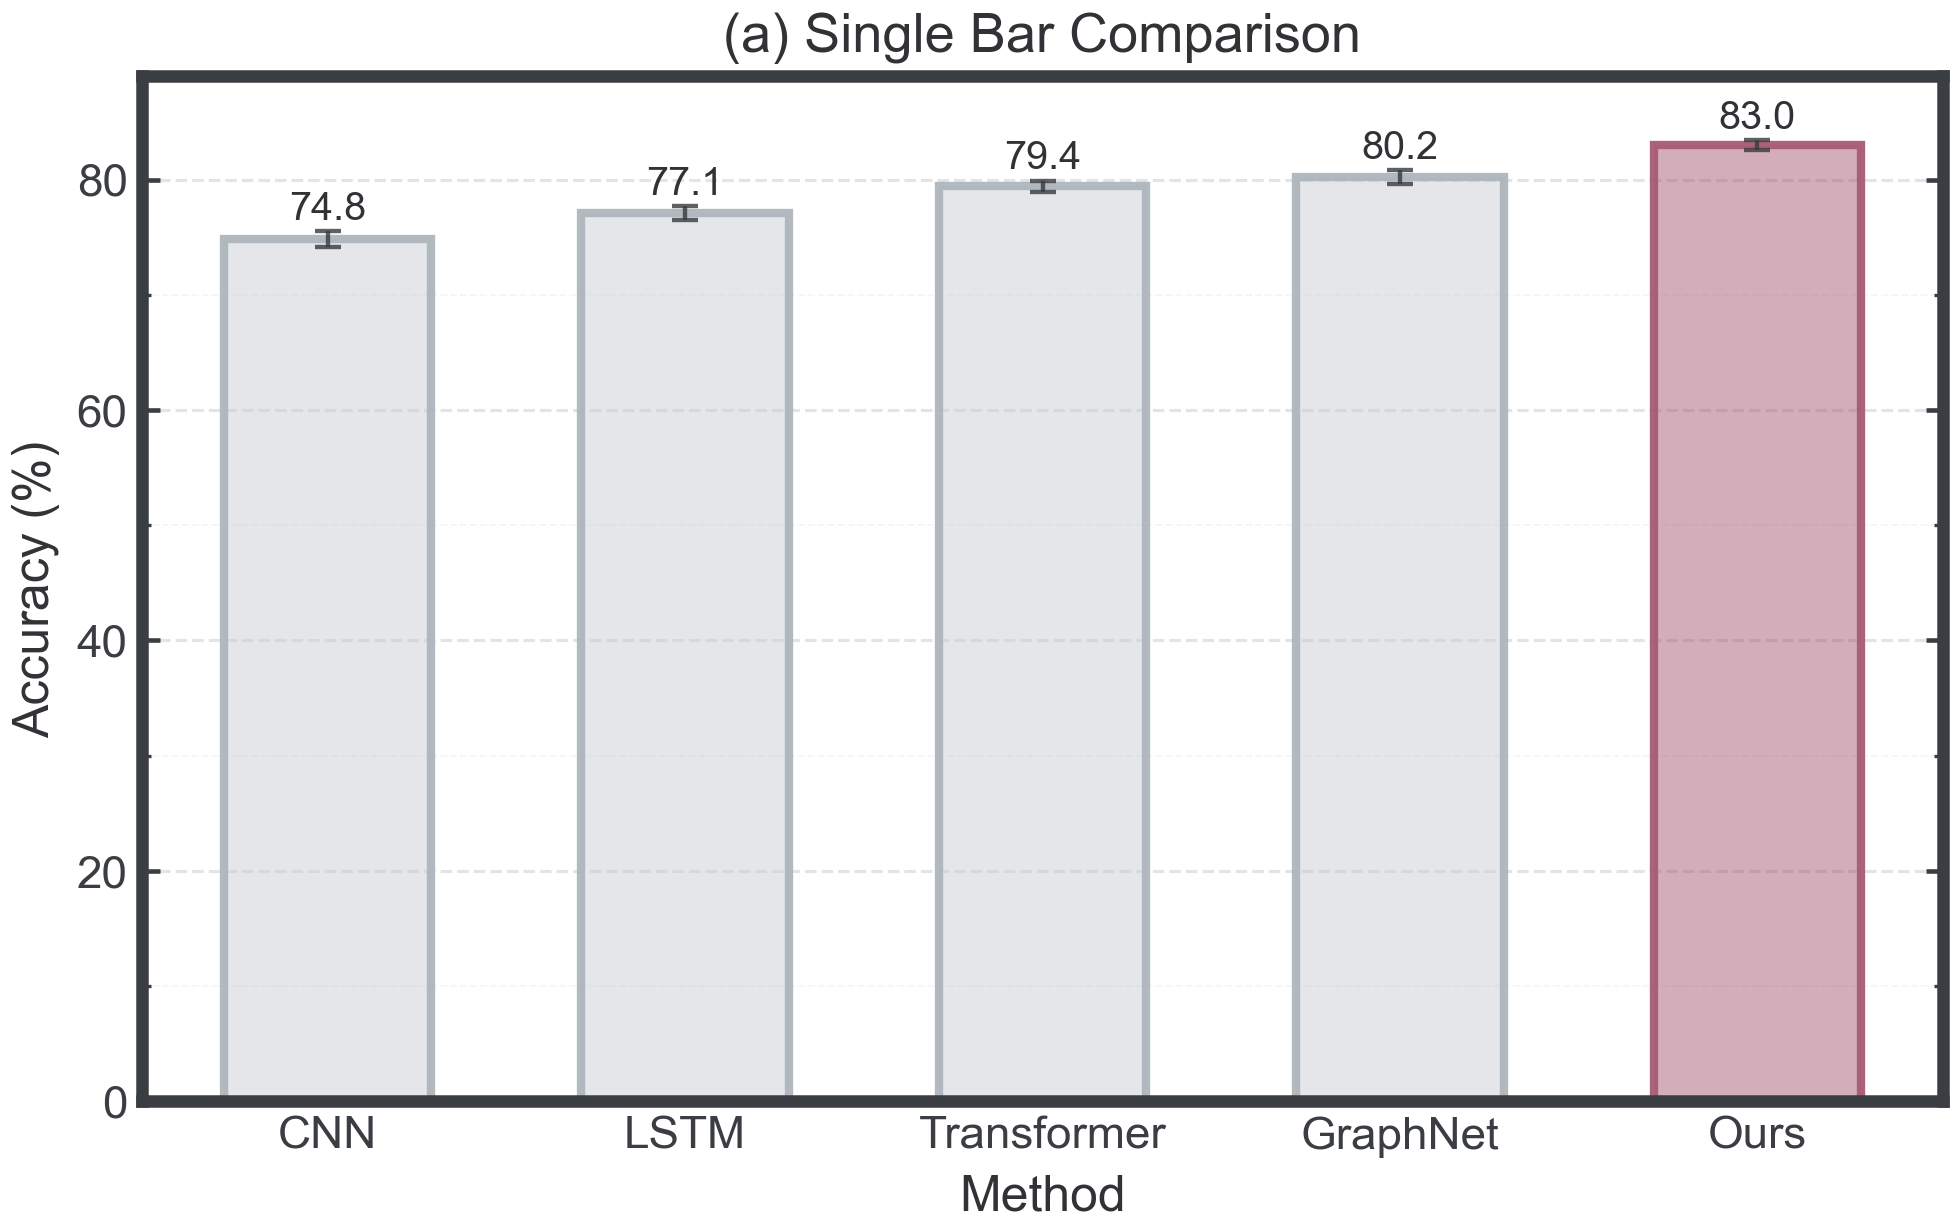
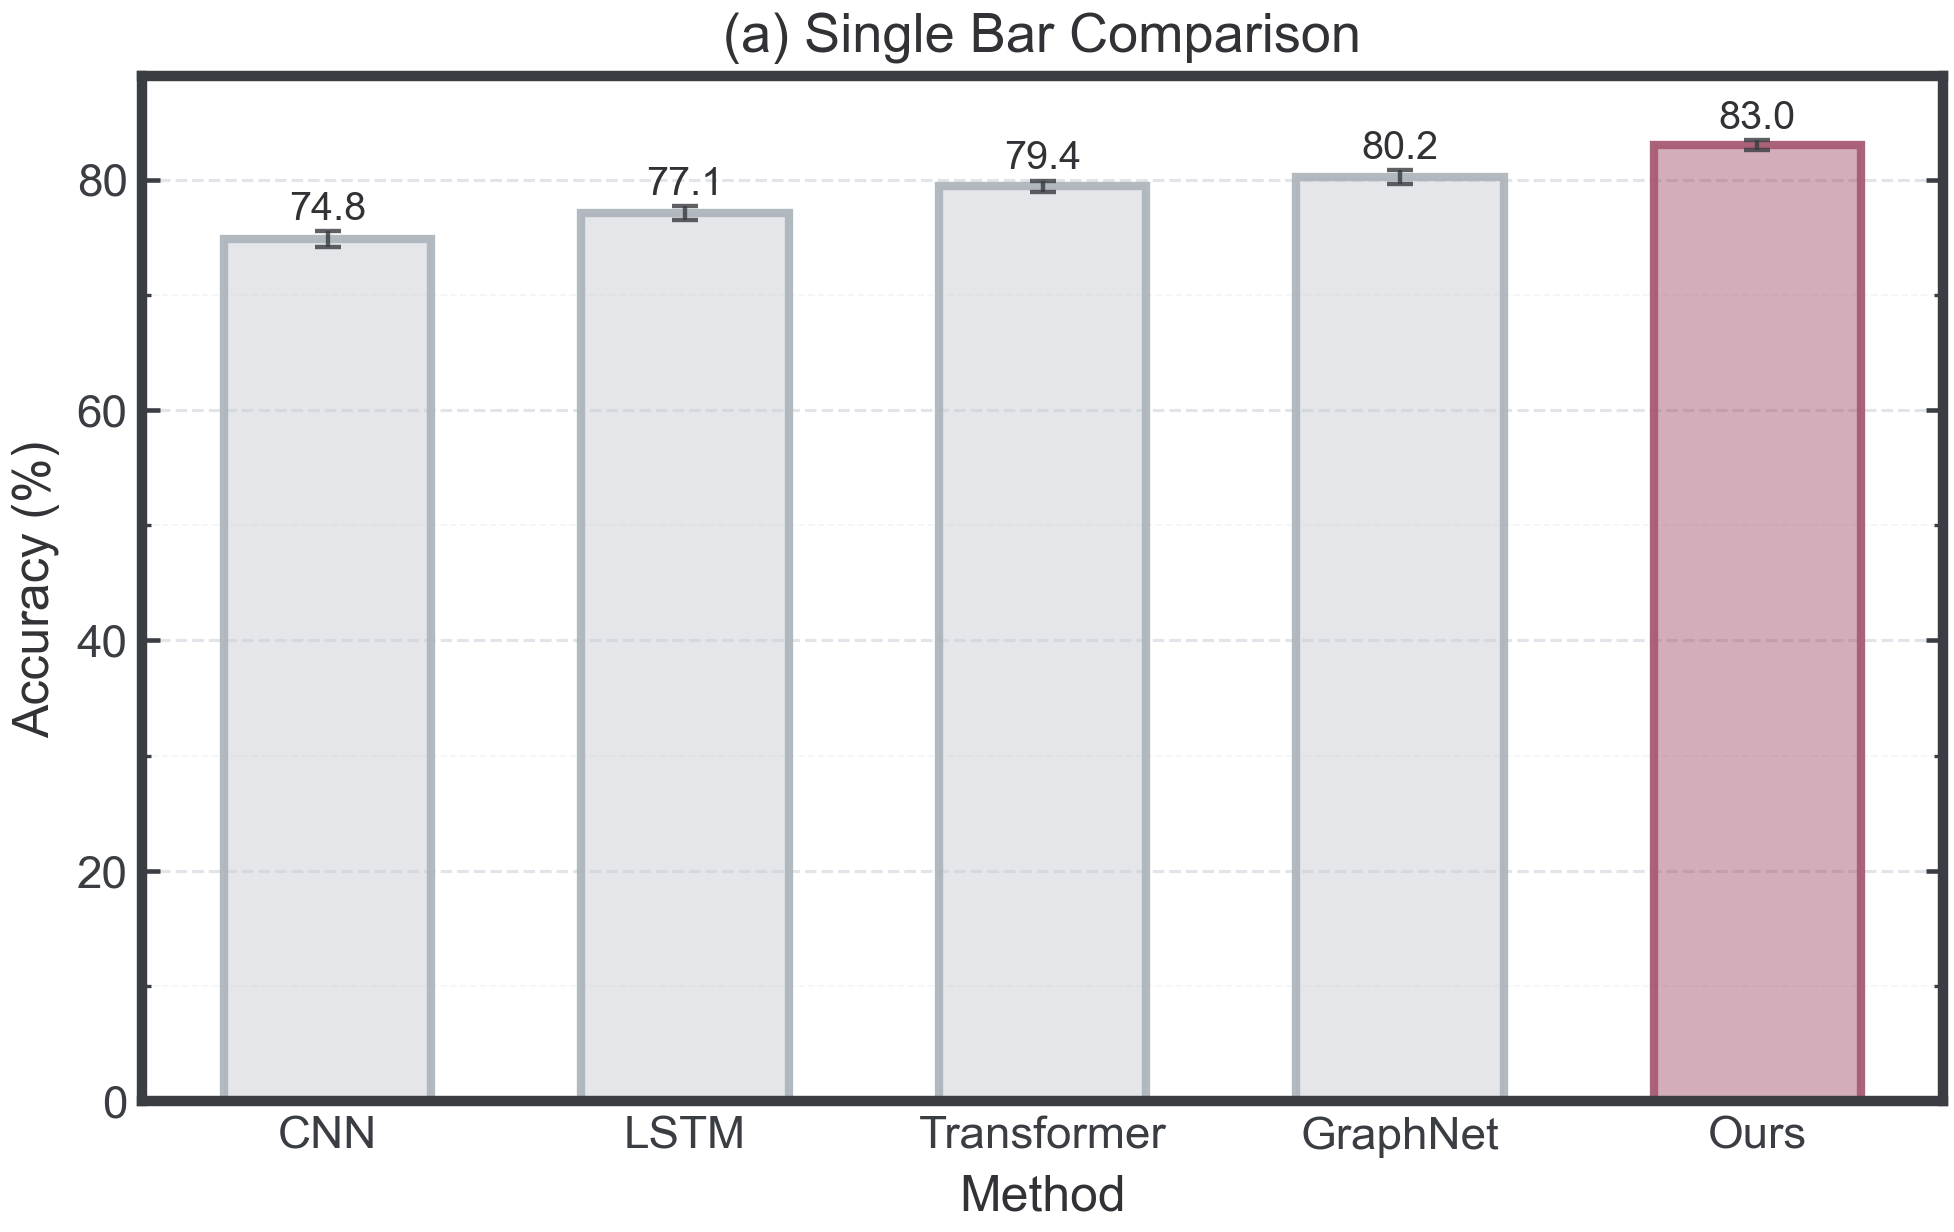
Set plot frame width to 2.5pt

diff --git a/skills/plot-training-curves/scripts/plot_training_curves.py b/skills/plot-training-curves/scripts/plot_training_curves.py
@@ -111,7 +111,7 @@ def set_line_plot_style(
     legend_size: float = 10.5,
     line_width: float = 1.65,
     figure_size: tuple[float, float] = (7.2, 4.6),
-    spine_width: float = 3.0,
+    spine_width: float = 2.5,
 ) -> None:
     c = colors()
     n = neutrals()
@@ -599,7 +599,7 @@ def render_single_axis(
     smooth: int,
     title: str | None,
     show_legend: bool,
-    spine_width: float = 3.0,
+    spine_width: float = 2.5,
 ) -> plt.Figure:
     set_line_plot_style(spine_width=spine_width)
     fig, ax = plt.subplots()
@@ -664,7 +664,7 @@ def render_loss_lr_panels(
     smooth: int,
     title: str | None,
     show_legend: bool,
-    spine_width: float = 3.0,
+    spine_width: float = 2.5,
 ) -> plt.Figure:
     lr = require_series(lr, "learning rate")
     if train is None and val is None:
@@ -764,7 +764,7 @@ def save_separate_figures(
     output: Path,
     pdf: bool,
     show_legend: bool,
-    spine_width: float = 3.0,
+    spine_width: float = 2.5,
 ) -> list[Path]:
     stem = output_stem(output)
     jobs = [
@@ -822,8 +822,8 @@ def parse_args() -> argparse.Namespace:
     )
     parser.add_argument("--pdf", action="store_true", help="Also save a companion PDF.")
     parser.add_argument(
-        "--spine-width", type=float, default=3.0,
-        help="Thickness in points of the four sides of the axes frame (default: 3.0).",
+        "--spine-width", type=float, default=2.5,
+        help="Thickness in points of the four sides of the axes frame (default: 2.5).",
     )
     parser.add_argument("--no-legend", action="store_true", help="Hide the legend.")
     return parser.parse_args()

diff --git a/skills/plot-bar-charts/scripts/plot_bar_charts.py b/skills/plot-bar-charts/scripts/plot_bar_charts.py
@@ -112,7 +112,7 @@ DEFAULT_CONFIG: dict[str, Any] = {
     "spines": {
         "top": True,
         "right": True,
-        "linewidth": 3.0,
+        "linewidth": 2.5,
     },
     "value_labels": {
         "enabled": True,

diff --git a/skills/plot-training-curves/SKILL.md b/skills/plot-training-curves/SKILL.md
@@ -34,7 +34,7 @@ python scripts/plot_training_curves.py trainer_state.json --mode train-vs-val --
 python scripts/plot_training_curves.py metrics.csv --mode lr-schedule --output lr_schedule.png
 ```
 
-Use `--spine-width 3.0` to set the frame thickness explicitly; the default is `3.0 pt`.
+Use `--spine-width 2.5` to set the frame thickness explicitly; the default is `2.5 pt`.
 
 In `all-separate` mode, `--output training_curves.png` is treated as a prefix and creates:
 
@@ -61,7 +61,7 @@ Use the bundled visual style unless the user requests a different house style:
 - Use semantic default colors: training loss green, validation/eval loss red, and learning-rate schedule blue. Use the remaining low-saturation palette colors only for additional series.
 - Use slightly transparent main lines rather than fully opaque strokes; the default script uses RGBA line alpha around `0.92` and line width around `1.65`.
 - Draw markers with semi-transparent fills and near-solid edges: keep `marker_face_alpha` around `0.6`, `marker_edge_alpha` around `0.95`, and `marker_edge_width` around `1.35`.
-- Keep the complete axes frame visible and set its default spine width to `3.0 pt`, using dark neutral axes color. Keep marker edges around `1.35 pt` so they remain subordinate to the stronger frame; preserve config overrides.
+- Keep the complete axes frame visible and set its default spine width to `2.5 pt`, using dark neutral axes color. Keep marker edges around `1.35 pt` so they remain subordinate to the stronger frame; preserve config overrides.
 - Transparent background, high-DPI PNG, and vector-friendly PDF/SVG font settings.
 - Smart major/minor ticks with subtle dashed grids.
 - Sparse markers on long curves so dense training logs remain readable.

diff --git a/README.md b/README.md
@@ -20,7 +20,7 @@ Create configurable line plots for LLM and machine-learning training logs, inclu
 - Learning-rate schedule
 
 The skill emphasizes reusable plotting code with explicit config interfaces for figure size, colors, line styles, alpha, markers, titles, labels, legends, ticks, grids, and export settings.
-Its default plots use a complete `3.0 pt` axes frame and slightly stronger marker edges.
+Its default plots use a complete `2.5 pt` axes frame and slightly stronger marker edges.
 
 ### `plot-bar-charts`
 
@@ -32,7 +32,7 @@ Create configurable single and grouped bar charts for scientific comparisons, in
 - Error bars and value labels
 
 The skill also requires generated bar-plot code to expose config controls for bar width, colors, alpha, edge style, error bars, value labels, legend placement, axis settings, and export formats.
-Its default plots use a complete `3.0 pt` axes frame and `2.0 pt` bar outlines.
+Its default plots use a complete `2.5 pt` axes frame and `2.0 pt` bar outlines.
 
 ### `paper-reading`
 

diff --git a/skills/plot-bar-charts/SKILL.md b/skills/plot-bar-charts/SKILL.md
@@ -62,7 +62,7 @@ Use the bundled visual style unless the user requests a different house style:
 - Default single highlighted bars should render non-highlight bars in neutral gray and the highlighted bar in red.
 - Default grouped bars should use blue, green, red, purple, cyan, orange, olive, then brown.
 - Use `face_alpha` around `0.5`, `edge_alpha` around `0.95`, and bar `edge_width` around `2.0 pt`.
-- Keep the complete axes frame visible and set its default spine width to `3.0 pt` in a dark neutral color; keep bar edge and frame widths configurable.
+- Keep the complete axes frame visible and set its default spine width to `2.5 pt` in a dark neutral color; keep bar edge and frame widths configurable.
 - Use restrained error bars with dark neutral color, narrow caps, and moderate alpha.
 - Put value labels above bars only when they improve readability; reserve vertical space so labels do not clip.
 - Use subtle dashed y-axis grid lines; do not draw x-axis grid lines by default.

diff --git a/README.zh-CN.md b/README.zh-CN.md
@@ -20,7 +20,7 @@
 - 学习率调度
 
 该 skill 强调可复用绘图代码，要求显式预留 config 接口，用于控制图尺寸、颜色、线型、透明度、marker、标题、坐标轴标签、图例、刻度、网格和导出参数。
-默认图表使用完整的 `3.0 pt` 坐标轴边框，标记点的边缘也略加粗。
+默认图表使用完整的 `2.5 pt` 坐标轴边框，标记点的边缘也略加粗。
 
 ### `plot-bar-charts`
 
@@ -32,7 +32,7 @@
 - 误差条与数值标签
 
 该 skill 同样要求生成的柱状图代码预留 config 控制项，包括柱宽、颜色、透明度、边框、误差条、数值标签、图例位置、坐标轴设置和导出格式。
-默认图表使用完整的 `3.0 pt` 坐标轴边框和 `2.0 pt` 柱边。
+默认图表使用完整的 `2.5 pt` 坐标轴边框和 `2.0 pt` 柱边。
 
 ### `paper-reading`
 

diff --git a/skills/plot-bar-charts/references/config-interface.md b/skills/plot-bar-charts/references/config-interface.md
@@ -129,7 +129,7 @@ For command-line scripts, support `--config path.json` or `--config path.yaml` w
 - `grid.major_alpha`, `grid.minor_alpha`.
 - `spines.top`, `spines.right`, `spines.bottom`, `spines.left`.
 - `spines.color`.
-- `spines.linewidth`: default `3.0 pt` for a complete, visible frame.
+- `spines.linewidth`: default `2.5 pt` for a complete, visible frame.
 
 ### Fonts, Titles, And Labels
 
@@ -230,7 +230,7 @@ DEFAULT_CONFIG = {
         "right": True,
         "bottom": True,
         "left": True,
-        "linewidth": 3.0,
+        "linewidth": 2.5,
     },
 }
 ```

diff --git a/skills/plot-training-curves/references/config-interface.md b/skills/plot-training-curves/references/config-interface.md
@@ -133,7 +133,7 @@ Default semantic colors:
 - `grid.major_alpha`, `grid.minor_alpha`.
 - `spines.top`, `spines.right`, `spines.bottom`, `spines.left`: visibility.
 - `spines.color`.
-- `spines.linewidth`: default `3.0 pt` for a complete, visible frame.
+- `spines.linewidth`: default `2.5 pt` for a complete, visible frame.
 
 ### Legends
 
@@ -242,7 +242,7 @@ DEFAULT_CONFIG = {
         "right": True,
         "bottom": True,
         "left": True,
-        "linewidth": 3.0,
+        "linewidth": 2.5,
     },
 }
 ```
